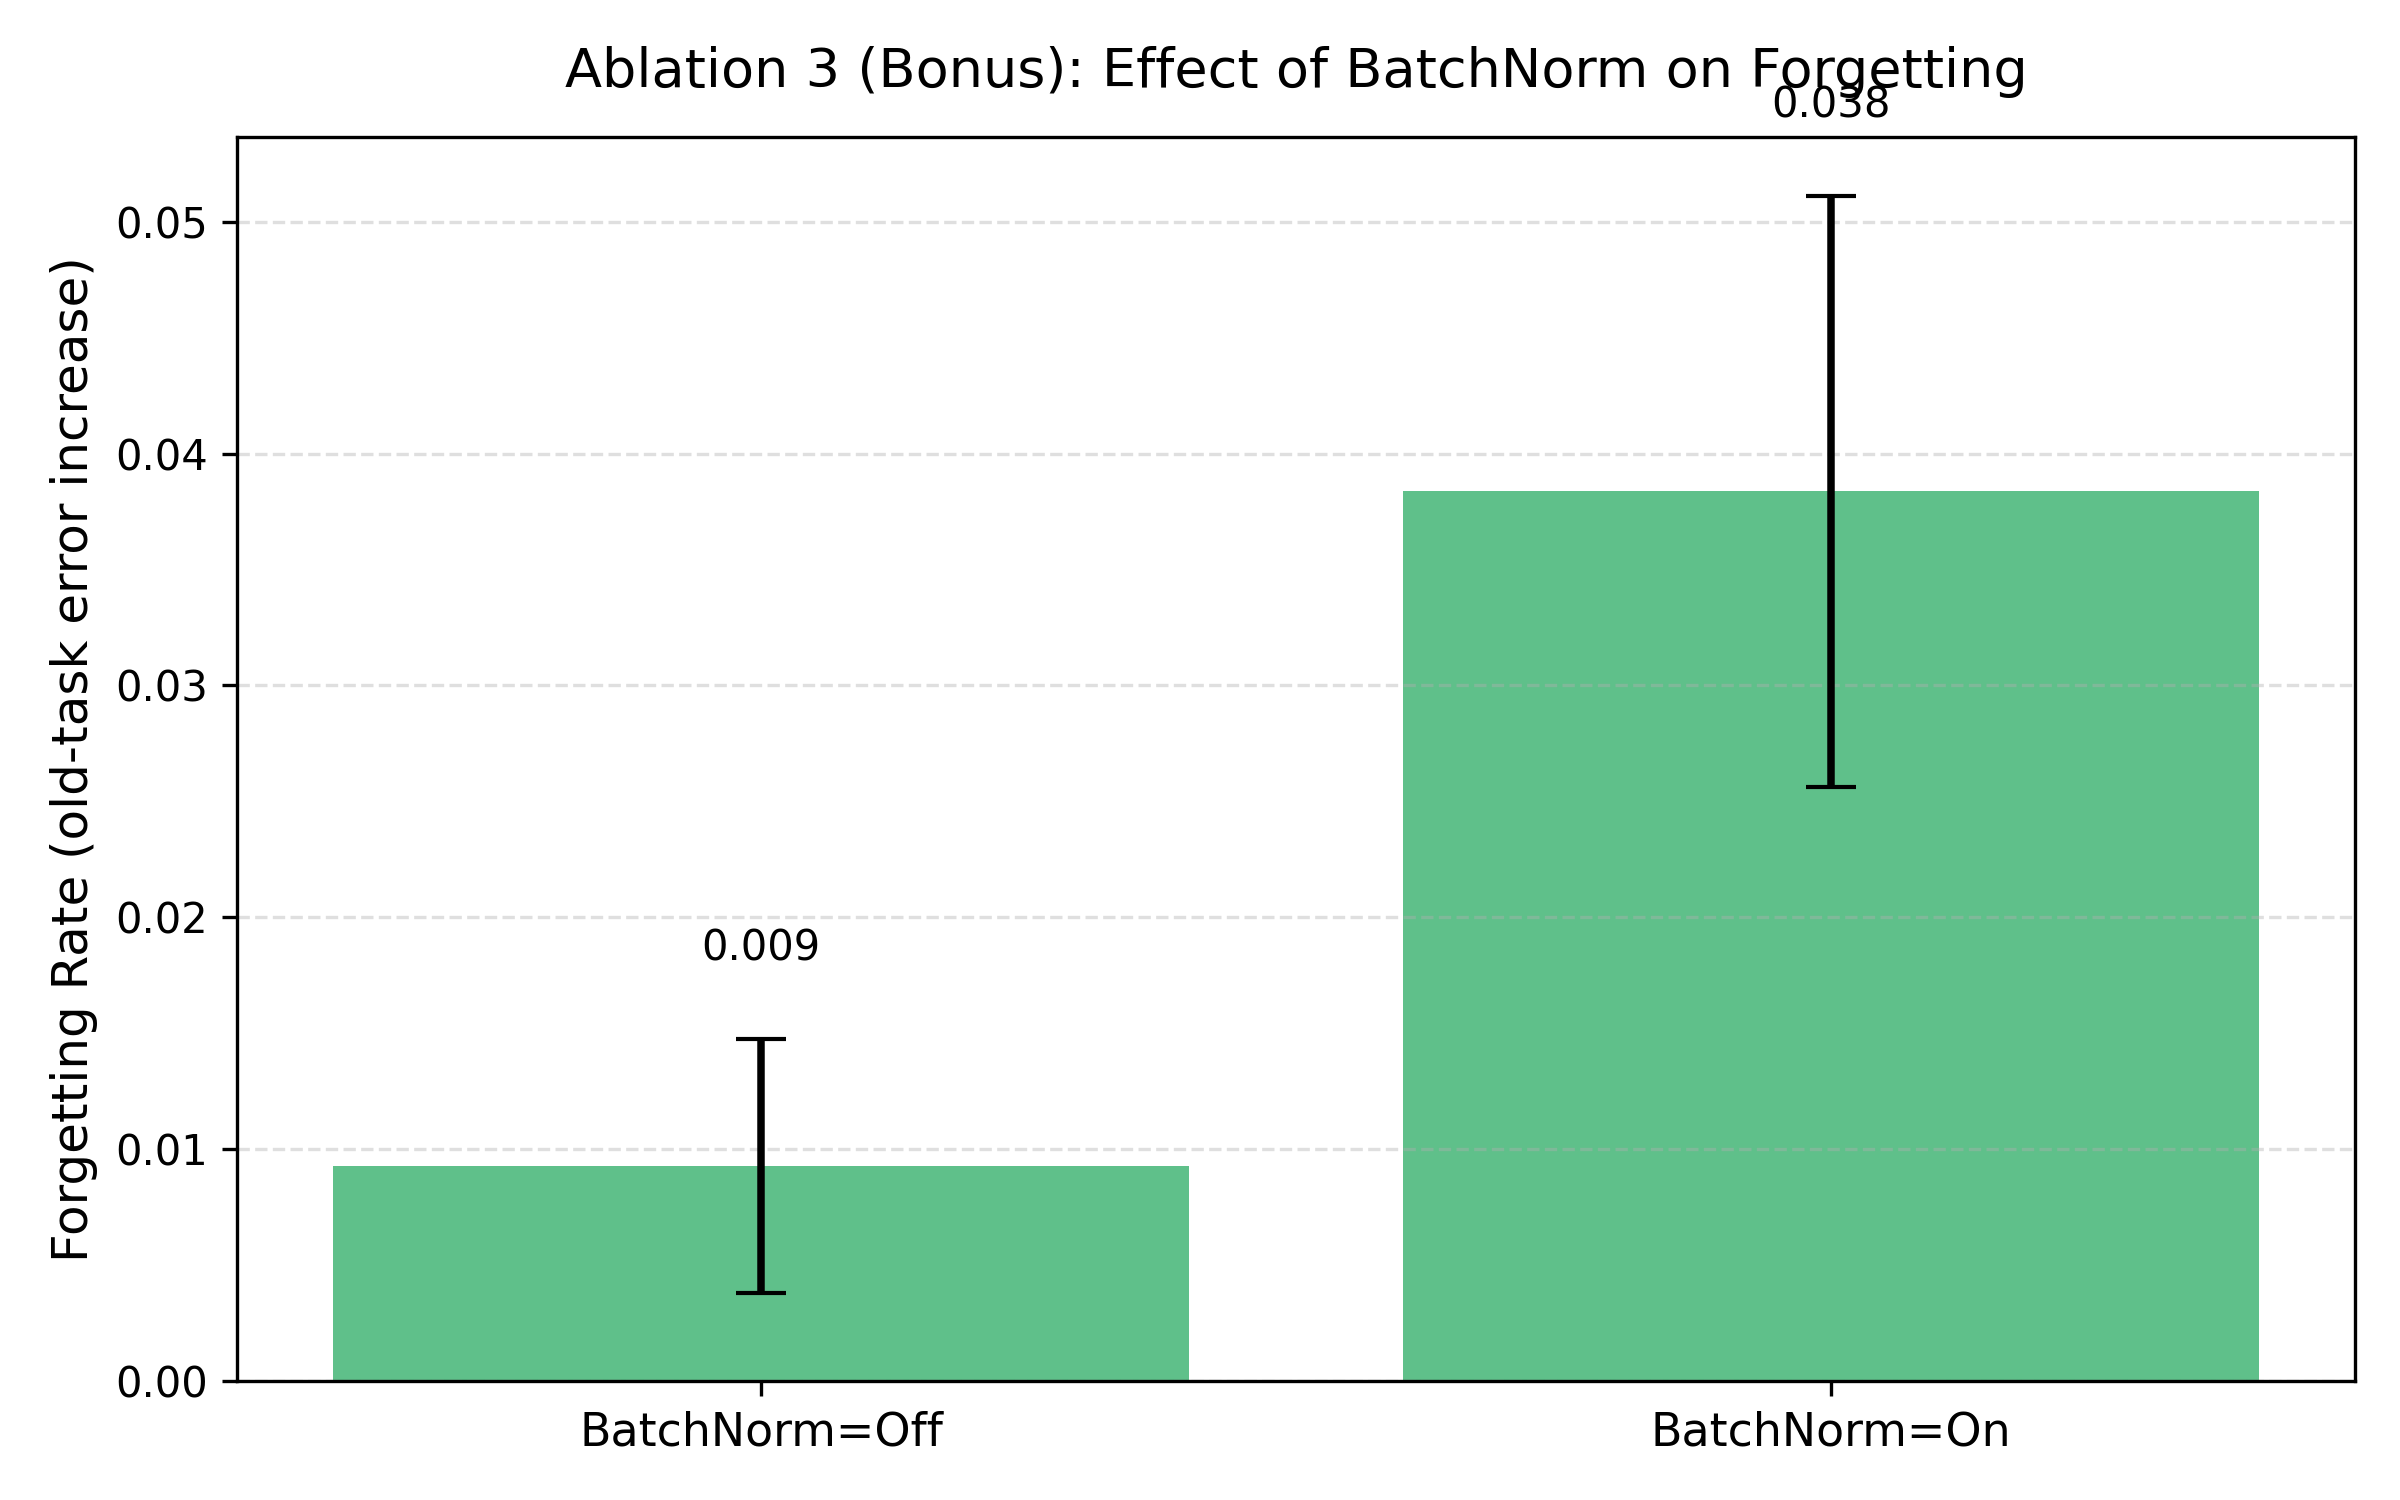
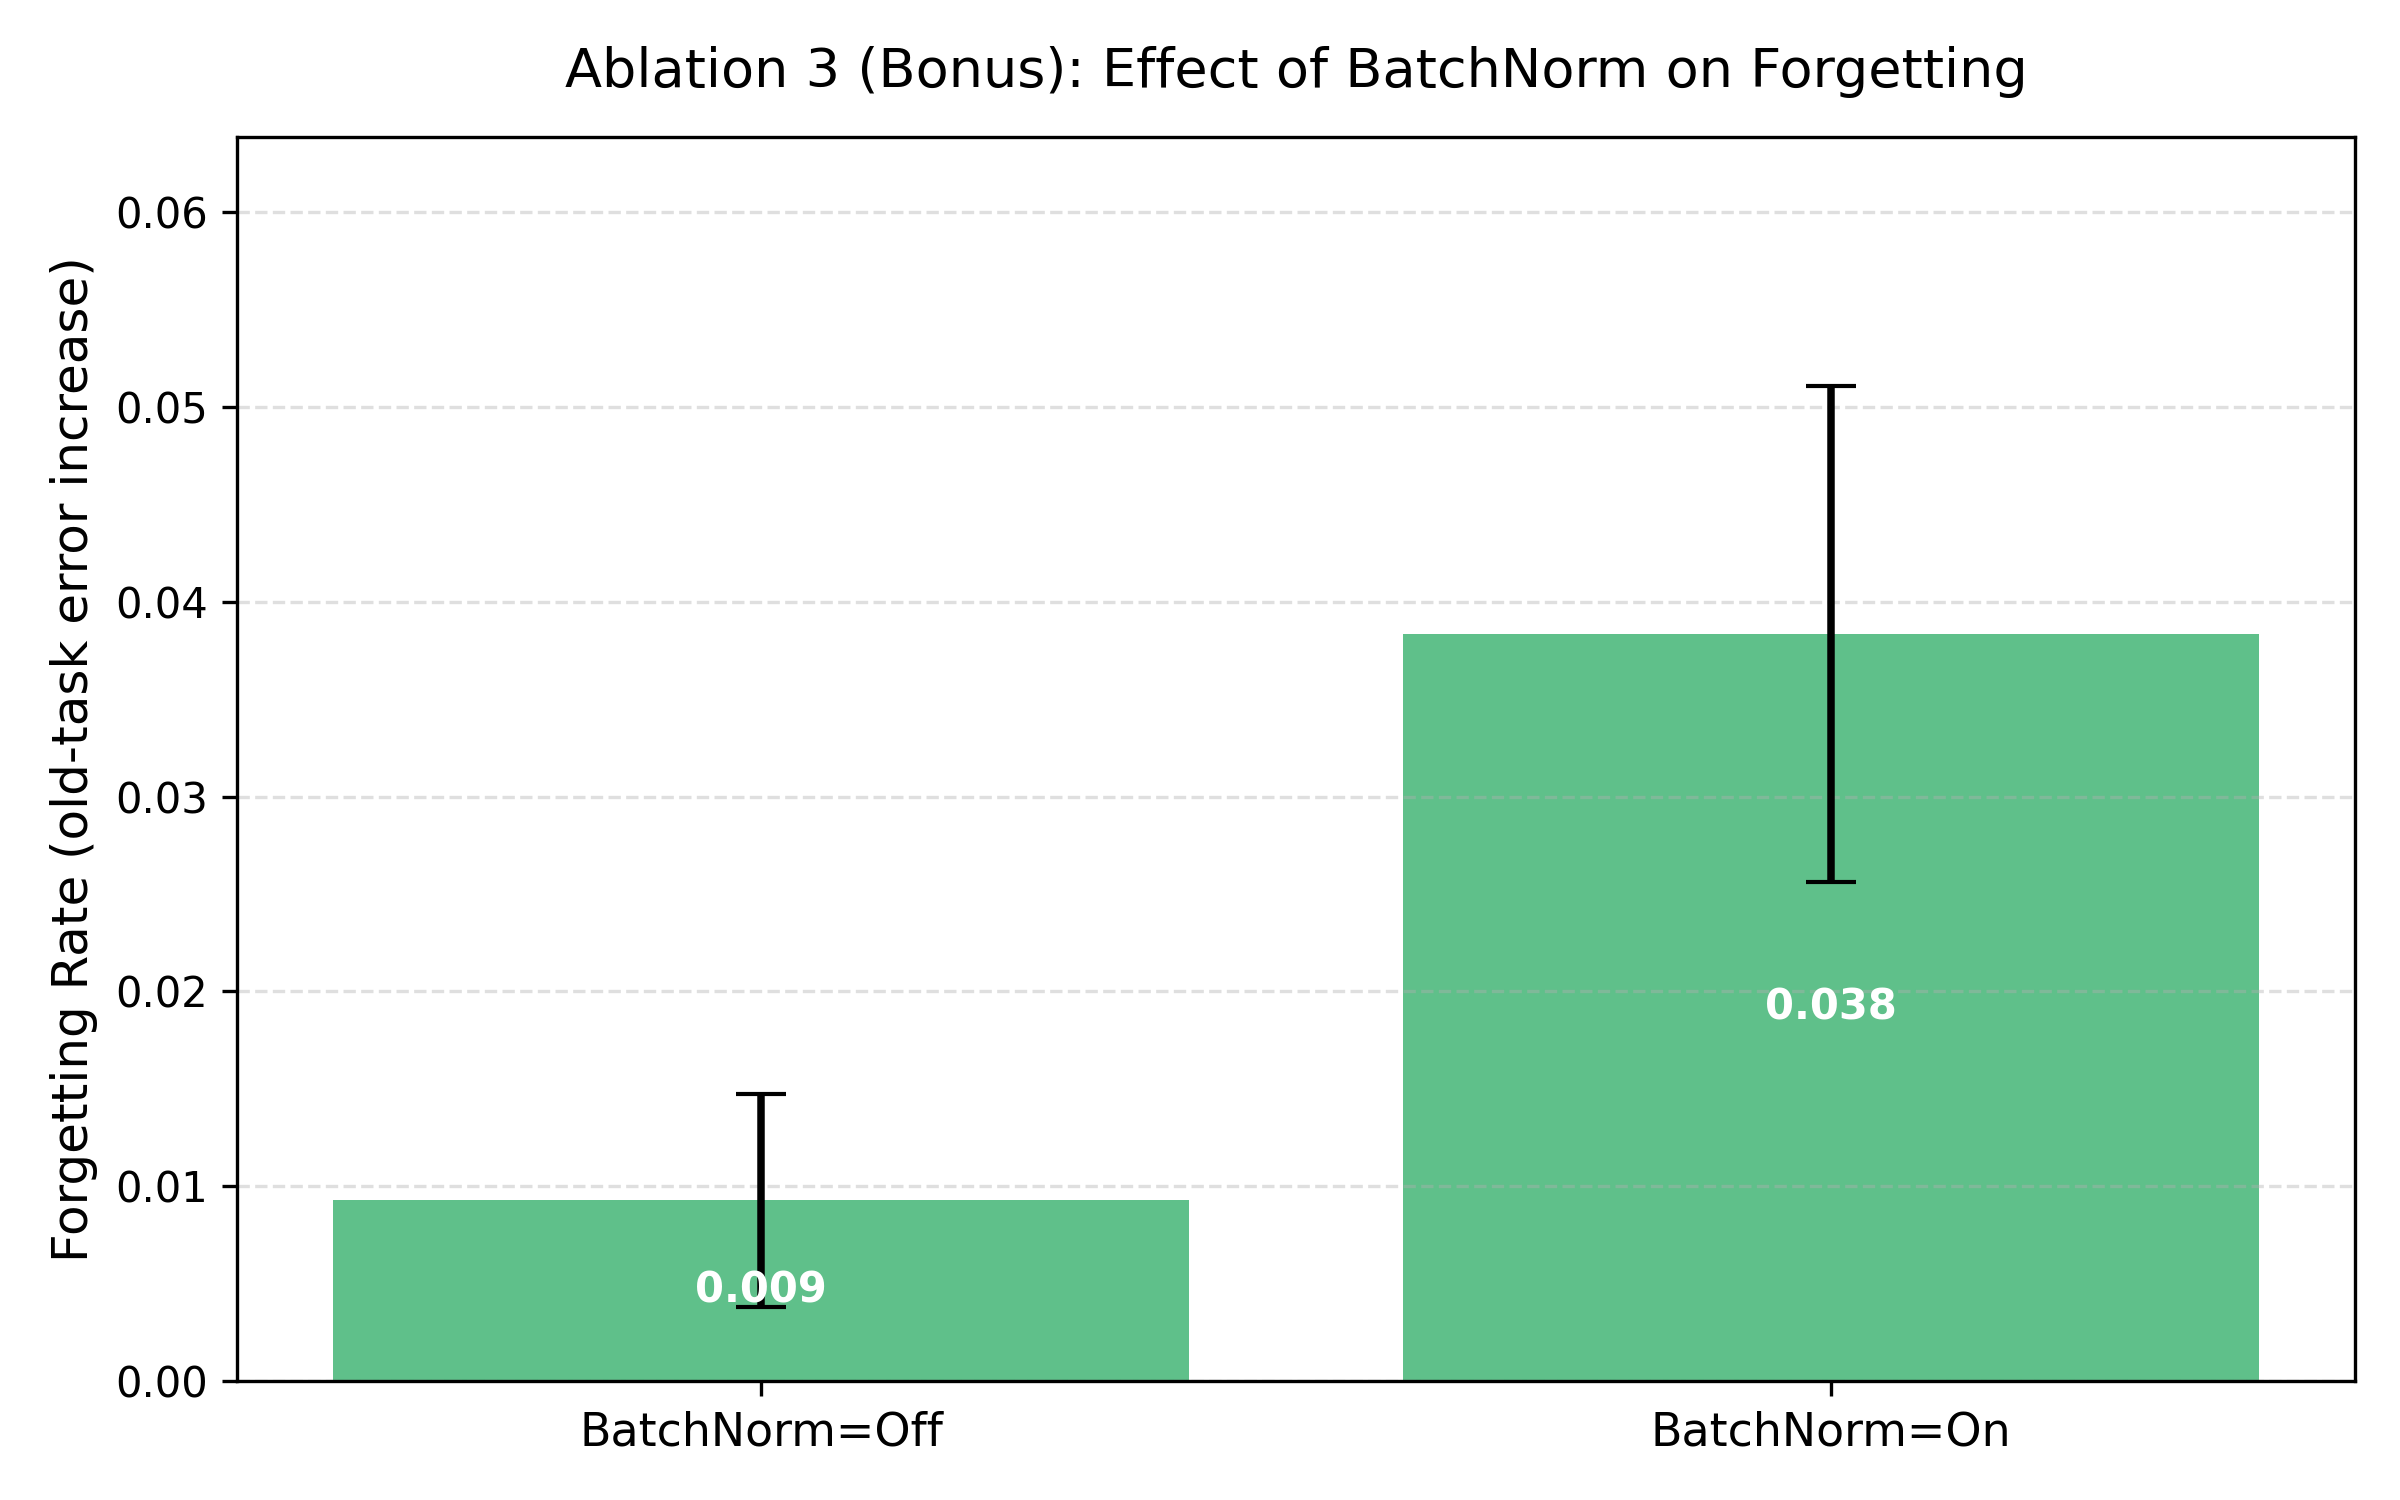
Fix ablation bar chart label positioning
Labels are now placed inside the bars (white bold text) instead of
above the error bars, preventing overlap with the title.

diff --git a/ablation_study.py b/ablation_study.py
@@ -322,10 +322,14 @@ def _plot_ablation_bars(labels, means, stds, ylabel, title, save_path, color="st
     ax.set_ylabel(ylabel, fontsize=12)
     ax.set_title(title, fontsize=13, pad=12)
     ax.grid(axis="y", linestyle="--", alpha=0.4)
-    for bar, m, s in zip(bars, means, stds):
+    # Extend y-axis to leave room above the tallest error bar
+    top = max(m + s for m, s in zip(means, stds))
+    ax.set_ylim(0, top * 1.25)
+    for bar, m in zip(bars, means):
         ax.text(bar.get_x() + bar.get_width() / 2,
-                bar.get_height() + s + 0.003,
-                f"{m:.3f}", ha="center", va="bottom", fontsize=10)
+                bar.get_height() * 0.5,
+                f"{m:.3f}", ha="center", va="center",
+                fontsize=10, color="white", fontweight="bold")
     plt.tight_layout()
     plt.savefig(save_path, dpi=300)
     plt.close(fig)
